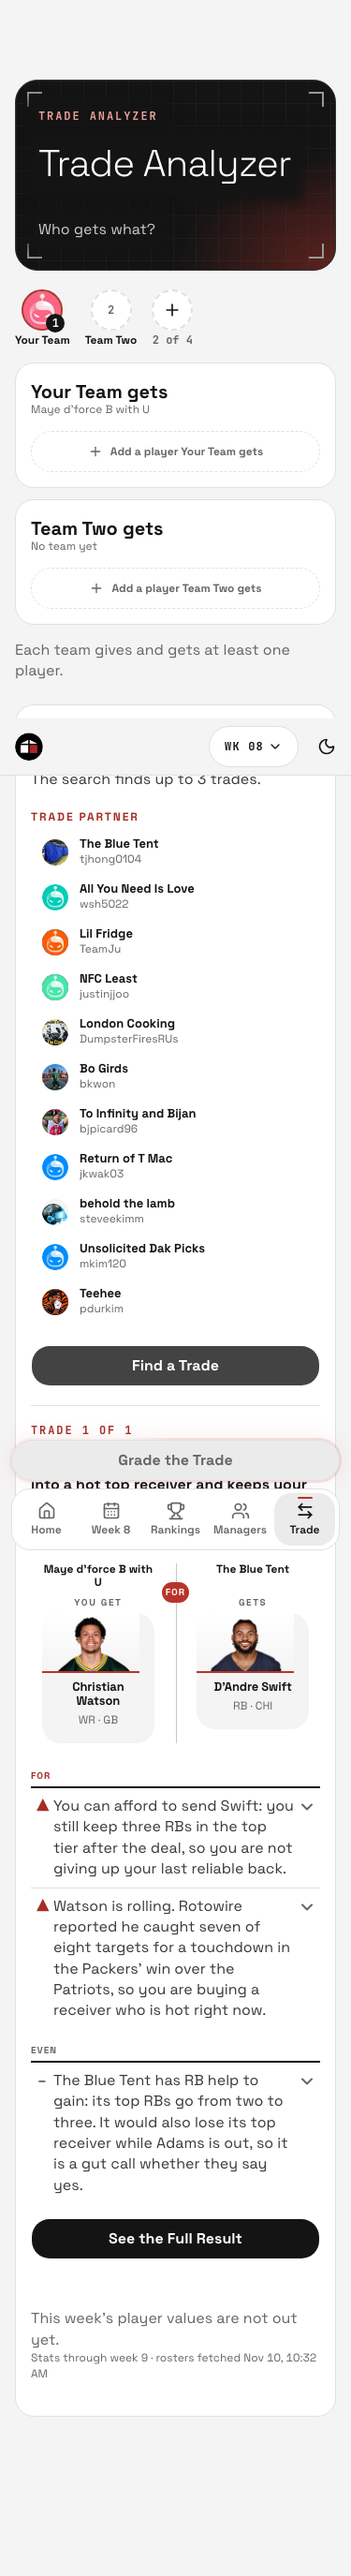
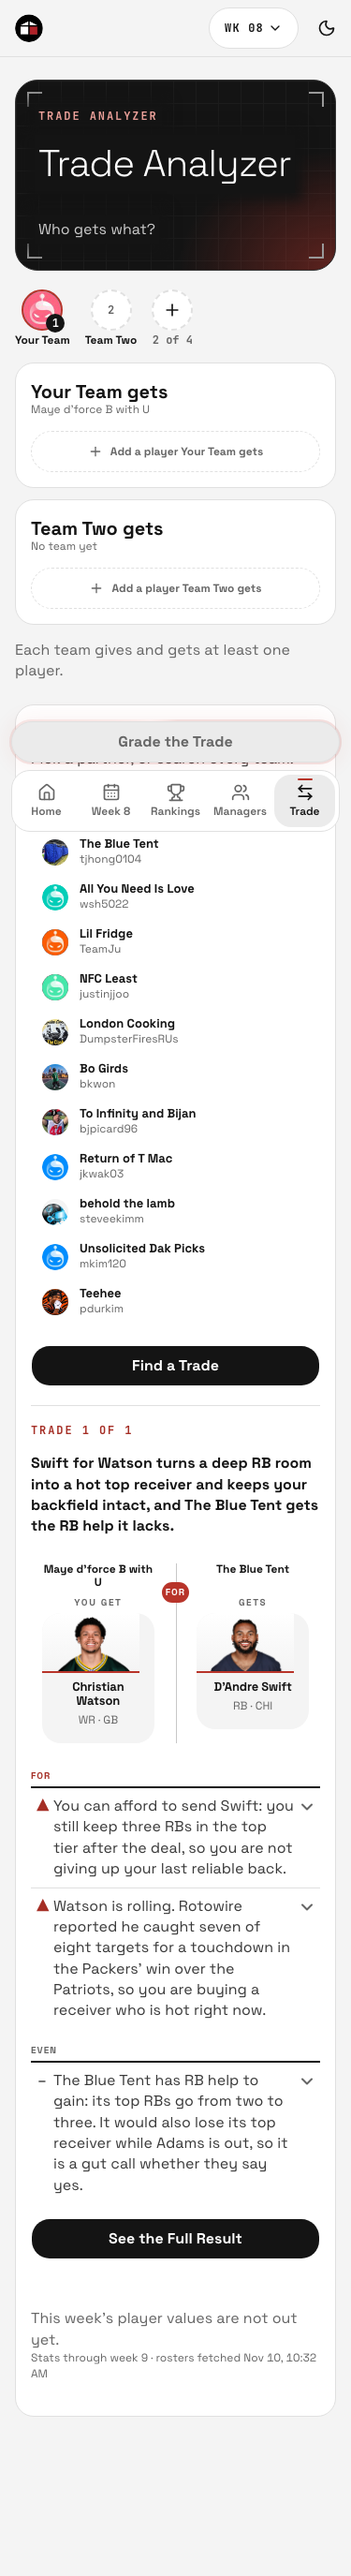
Record the evidence of manager-brain again
AT-19 gets its revised Then line. AT-47 gets card shots with the headline in
view and shots of a tap on a card Bullet.

diff --git a/.scratch/manager-brain/EVIDENCE.md b/.scratch/manager-brain/EVIDENCE.md
@@ -134,7 +134,7 @@ Observation: The first sentence of the Case of AT-16 is "If you believe Bijan's 
 ## AT-19: Every number, name, and fact id comes from the sheet
 
 App: pipeline
-Then: each cited fact id is on its sheet, and each number and each player name in a Bullet or a Case is in a cited fact.
+Then: each cited fact id is on its sheet, and each number in a Bullet or a Case is in a cited fact. Each player name is in a cited fact or is a player of the trade itself.
 Files: `evidence/AT-19/output.txt`, `evidence/AT-19/check_reads.py`
 Observation: At 6ba706cf, over the 28 new eval reads, 276 of 276 cited fact ids are on their sheets. The strict check finds 0 numbers outside the cited facts. It finds 29 player names outside the text of a cited fact, 2 full and 27 last names, and each one names a player of the trade itself, such as "Patrick Mahomes" (trade 3).
 
@@ -338,8 +338,8 @@ Observation: The rendered text of the Finder cards and of the analyzer read has 
 
 App: site
 Then: the card shows a headline, the swap, and 2 to 4 Bullet rows with the same Marks and tap as the analyzer. The tap opens the analyzer read of that trade.
-Files: `evidence/AT-47/steps.json`, `evidence/AT-47/build-note.txt`, `evidence/AT-47/card-375-light.png`, `evidence/AT-47/card-375-dark.png`, `evidence/AT-47/card-768-light.png`, `evidence/AT-47/card-768-dark.png`, `evidence/AT-47/card-1280-light.png`, `evidence/AT-47/card-1280-dark.png`, `evidence/AT-47/read-375-light.png`, `evidence/AT-47/read-375-dark.png`, `evidence/AT-47/read-768-light.png`, `evidence/AT-47/read-768-dark.png`, `evidence/AT-47/read-1280-light.png`, `evidence/AT-47/read-1280-dark.png`
-Observation: At commit 6ba706cf, on a build with the Finder on (see `build-note.txt`), Find with no partner shows "Trade 1 of 1". The card has a headline, a swap card (Christian Watson for D'Andre Swift), 3 Bullet rows with ▲, ▲, and – Marks and a chevron, and a "See the Full Result" button. The headline is partly under the fixed "Grade the Trade" bar. The tap opens the analyzer read of that trade: "Lean yes", the 5-step scale, the Fairness card "Fair", and For, Against, and Even bands.
+Files: `evidence/AT-47/steps.json`, `evidence/AT-47/build-note.txt`, `evidence/AT-47/card-375-light.png`, `evidence/AT-47/card-375-dark.png`, `evidence/AT-47/card-768-light.png`, `evidence/AT-47/card-768-dark.png`, `evidence/AT-47/card-1280-light.png`, `evidence/AT-47/card-1280-dark.png`, `evidence/AT-47/card-tap-375-light.png`, `evidence/AT-47/card-tap-375-dark.png`, `evidence/AT-47/card-tap-768-light.png`, `evidence/AT-47/card-tap-768-dark.png`, `evidence/AT-47/card-tap-1280-light.png`, `evidence/AT-47/card-tap-1280-dark.png`, `evidence/AT-47/read-375-light.png`, `evidence/AT-47/read-375-dark.png`, `evidence/AT-47/read-768-light.png`, `evidence/AT-47/read-768-dark.png`, `evidence/AT-47/read-1280-light.png`, `evidence/AT-47/read-1280-dark.png`
+Observation: At commit cec76b5d, on a build with the Finder on (see `build-note.txt`), Find with no partner gives "Trade 1 of 1". Each `card-*` shot is scrolled to the top of the page, so the fixed bar sits over the partner list and the whole headline ("Swift for Watson turns a deep RB room into a hot top receiver ...") shows in clear view above the swap card (Christian Watson for D'Andre Swift) and 3 Bullet rows with ▲, ▲, and – Marks, with a chevron on each. Each `card-tap-*` shot shows the first Bullet row open, with its chevron flipped and its fact line ("For Maye d'force B with U, the RBs in the top 36 go from 4 to 3.") under the row. Each `read-*` shot shows the analyzer read that opens from "See the Full Result": "Lean yes", the scale, Fairness "Fair", and the For, Against, and Even bands.
 
 ## AT-48: Find works with no partner picked
 
